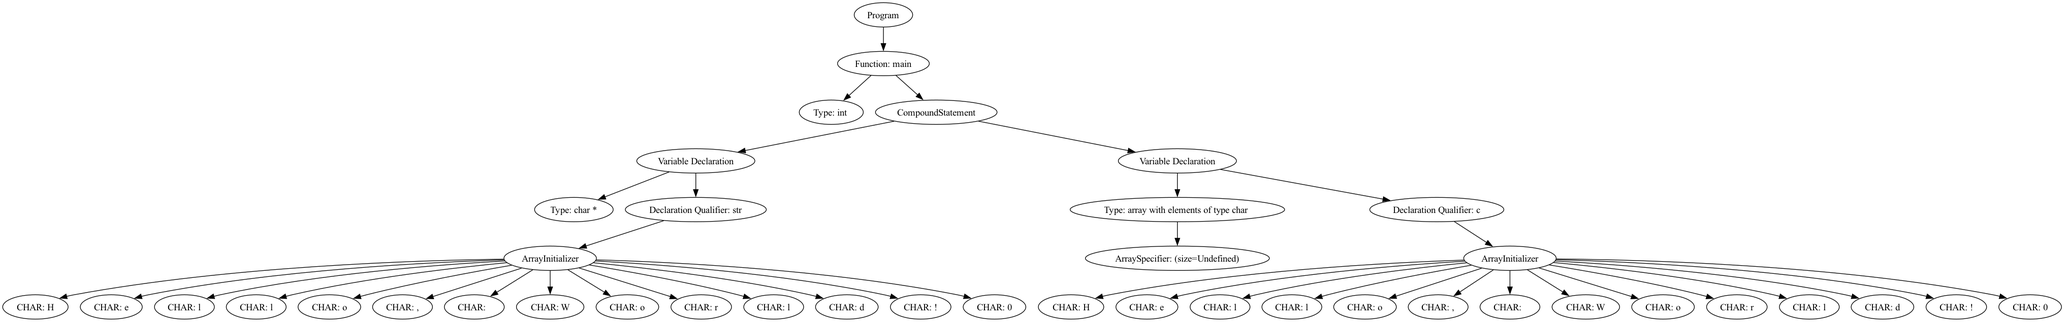
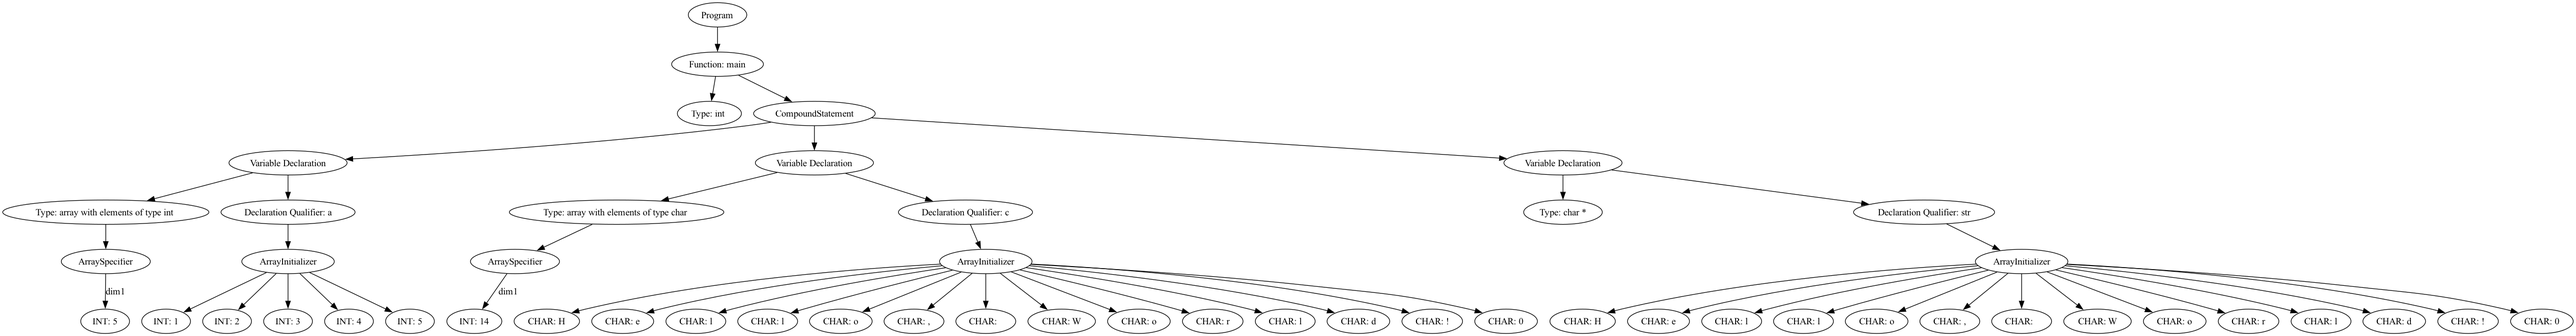
FEAT: undefined array size (trick at parse time)

diff --git a/compiler/frontend/symbol_table/symbol_table_visitor.py b/compiler/frontend/symbol_table/symbol_table_visitor.py
@@ -203,6 +203,7 @@ class SymbolTableVisitor(AstVisitor):
                     if not isinstance(initializer, ast.ArrayInitializer):
                         raise SemanticError(f"Array '{identifier}' must be initialized with an array initializer.", node.line, node.position)
                     if initializer_type.type.array_sizes != node.var_type.type.array_sizes: # TODO: if initializer_type.type.array_sizes > node.var_type.type.array_sizes
+                        print(initializer_type.type.array_sizes, node.var_type.type.array_sizes)
                         raise SemanticError(f"Array '{identifier}' must be initialized with {node.var_type.type.array_sizes} elements.", node.line, node.position)
                     if initializer_type.type.element_type != node.var_type.type.element_type:
                         raise SemanticError(f"Array '{identifier}' must be initialized with elements of type {node.var_type.type.element_type}.", node.line, node.position)

diff --git a/compiler/frontend/parser/tree_visitor.py b/compiler/frontend/parser/tree_visitor.py
@@ -149,9 +149,10 @@ class TreeVisitor(GrammarVisitor):
         # Check if the type needs to be changed to an array type
         for qualifier in qualifiers:
             if qualifier.array_specifier:
+                array_size = ast.INT(value=len(qualifier.initializer.elements))
                 array_type = ast.ArrayType(
                     element_type=var_type,
-                    array_sizes=qualifier.array_specifier,
+                    array_sizes=qualifier.array_specifier if qualifier.array_specifier.sizes else ast.ArraySpecifier(sizes=[array_size]),
                     line=ctx.start.line, position=ctx.start.column
                 )
                 qualifier.array_specifier = None # We can remove the qualifier since we have it in the array type

diff --git a/input/in.c b/input/in.c
@@ -1,4 +1,5 @@
 int main () {
-    char* str = "Hello, World!";
+    int a[5] = {1, 2, 3, 4, 5};
     char c[] = "Hello, World!";
+    char* str = "Hello, World!";
 }
